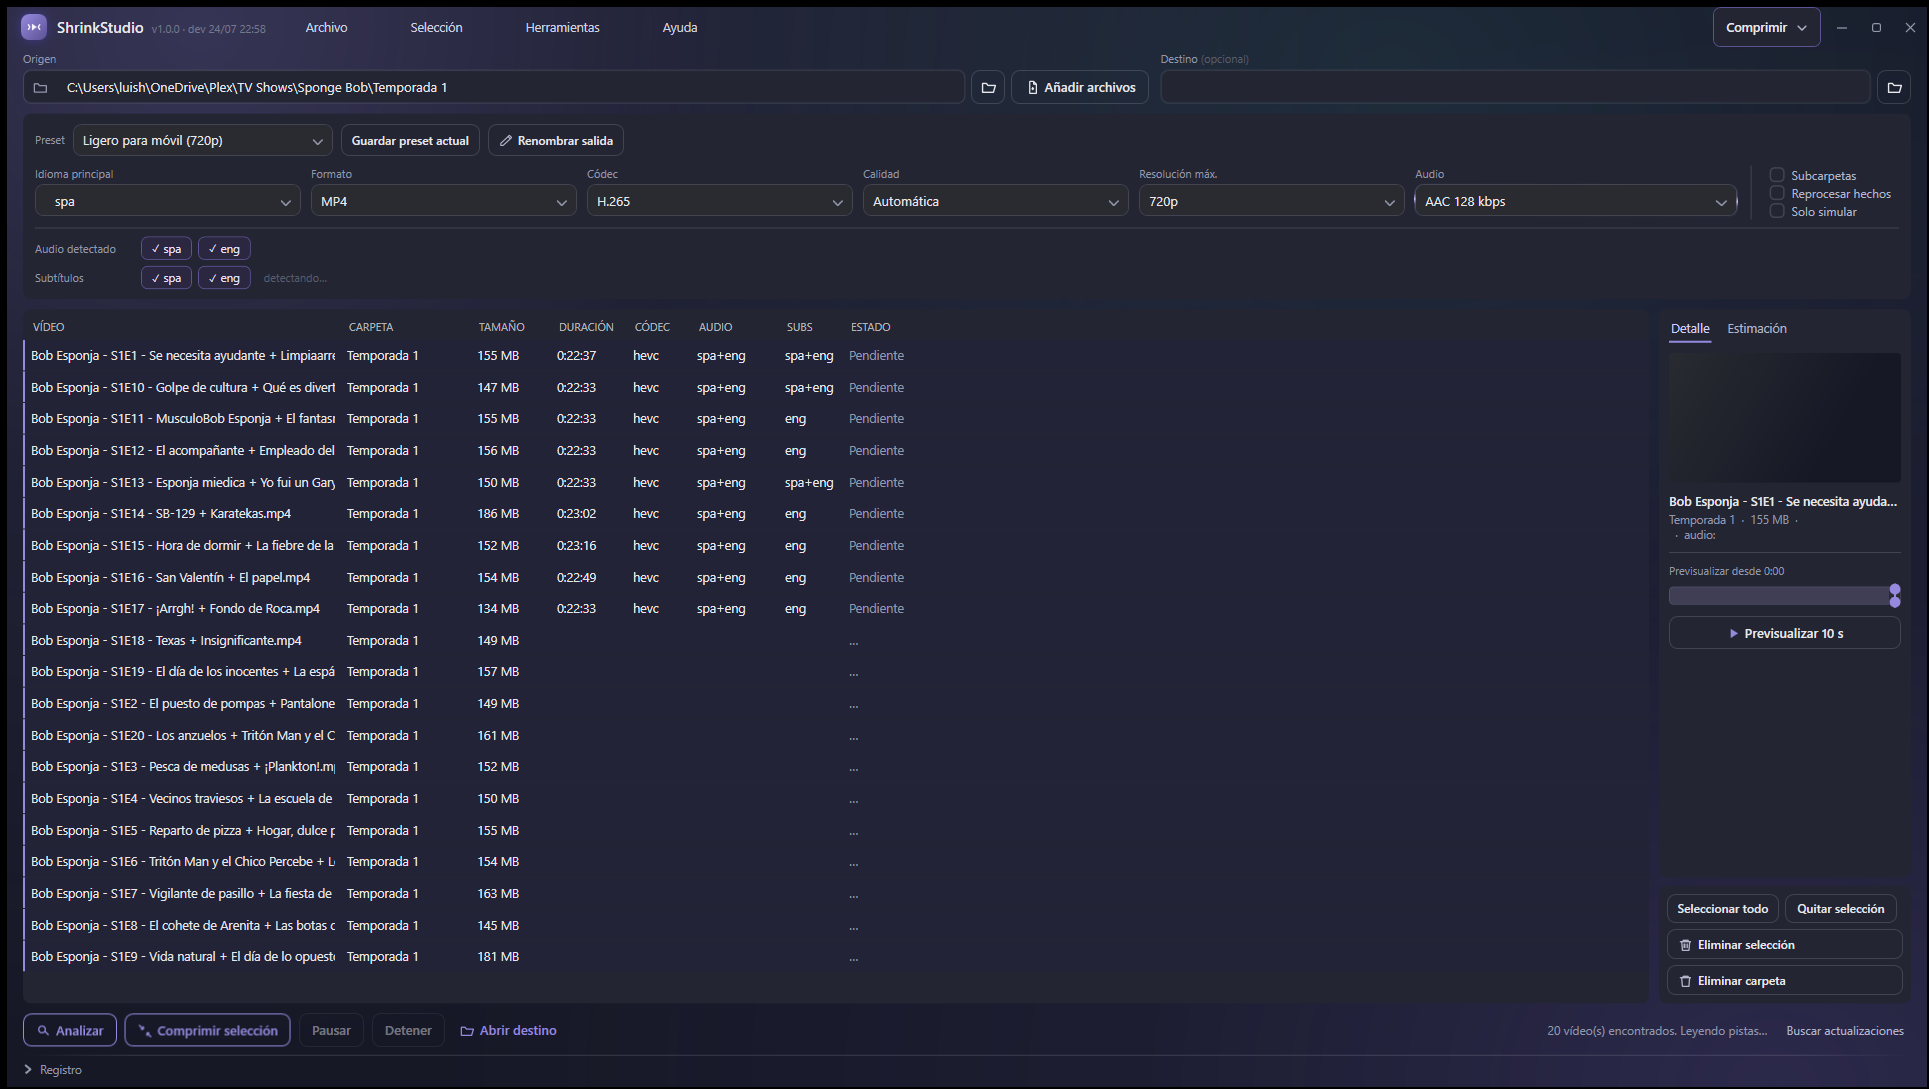
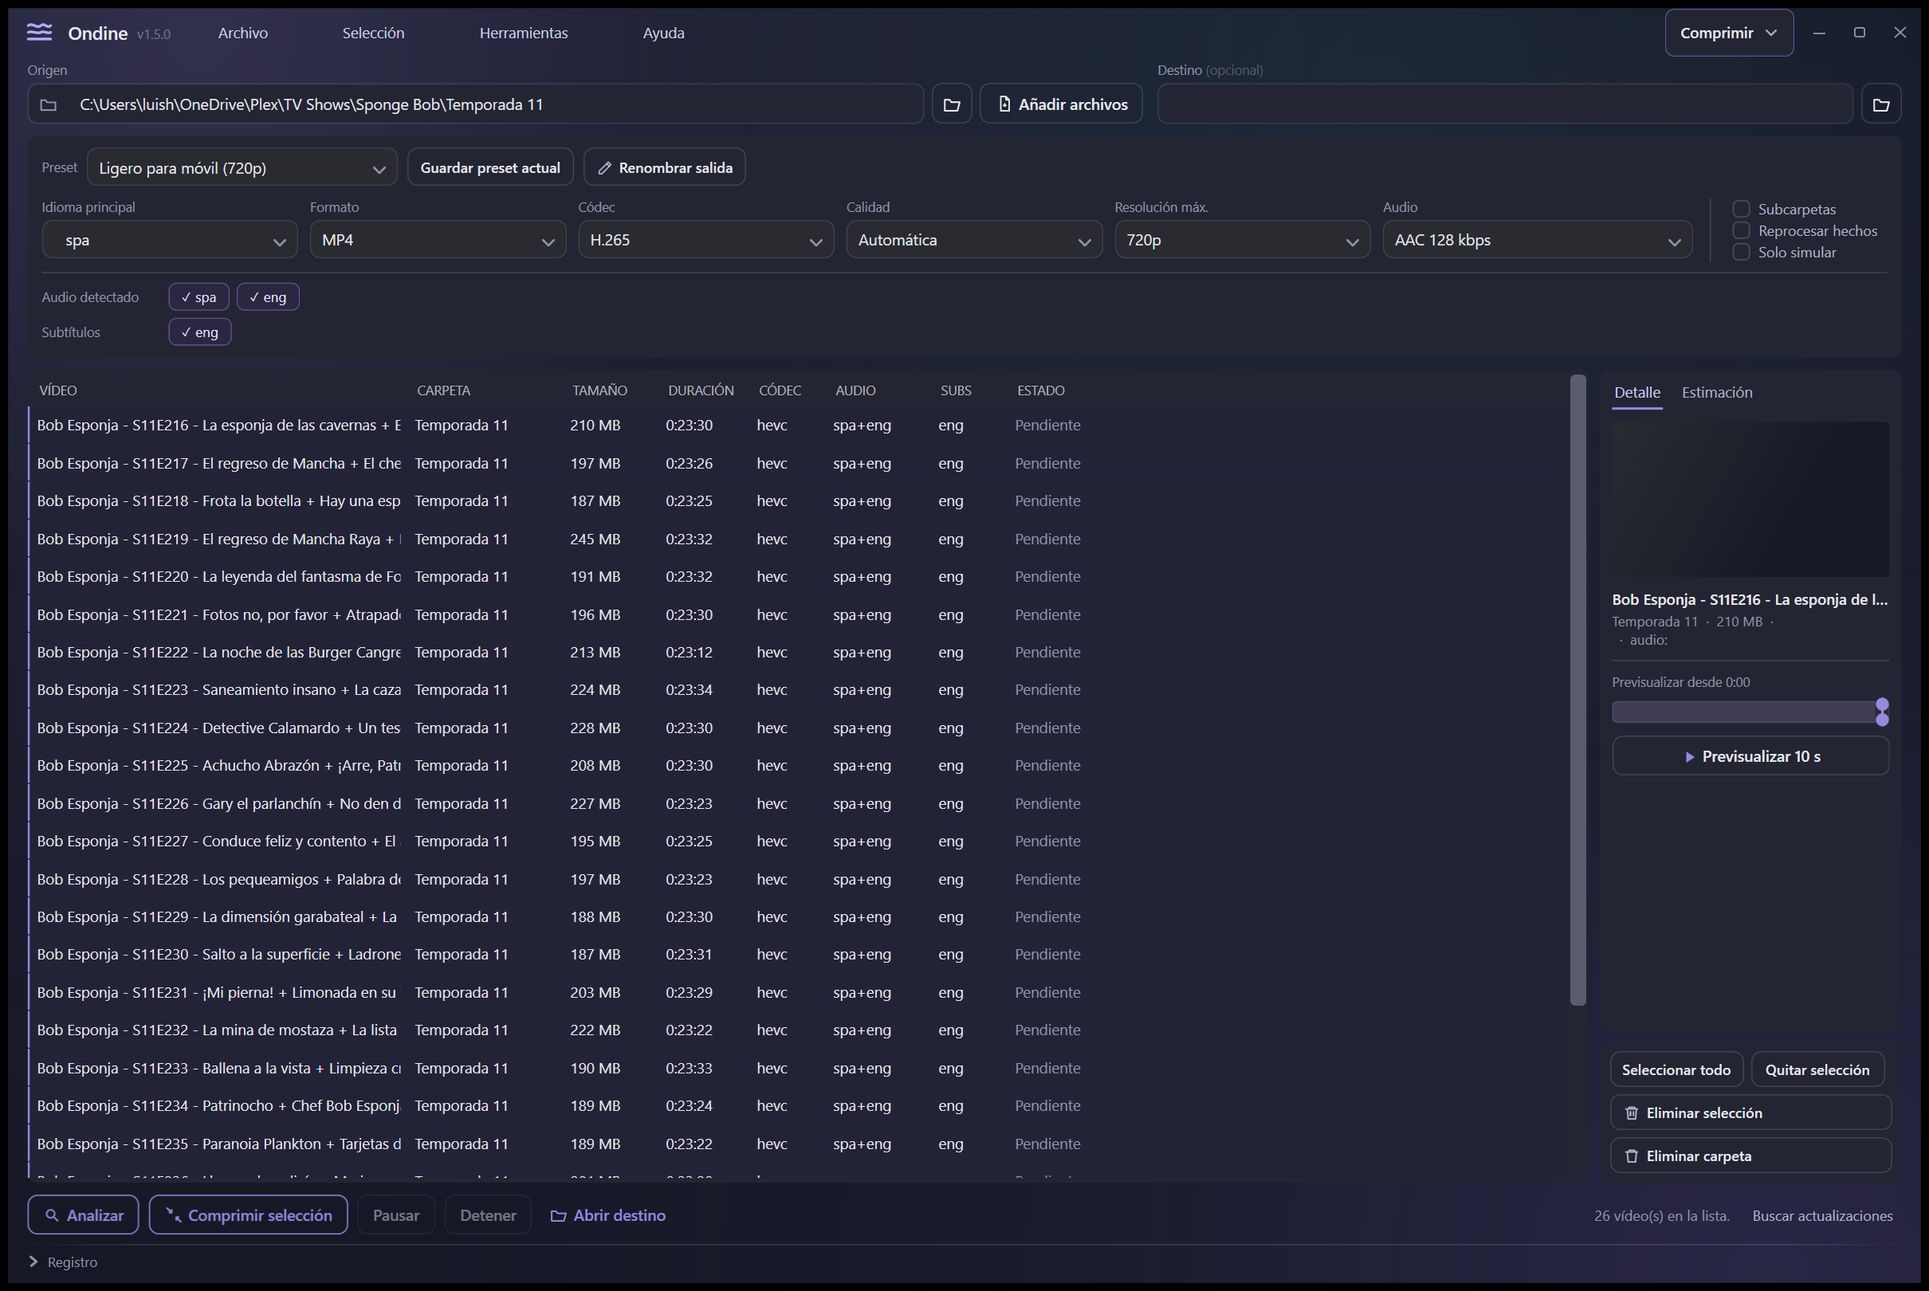
docs: capturas del README rehechas con la marca nueva
Las tres eran del 25 de julio y seguian mostrando «ShrinkStudio» con el
squircle: quien llegaba al README veia la app anterior.

Rehechas sobre la v1.5.0 instalada, con datos reales:
- Comprimir: una temporada analizada, 26 videos con codec, duracion,
  idiomas de audio y subtitulos.
- Organizar: la biblioteca entera contra el catalogo — 246 ficheros, 246
  correctos, cero conflictos, agrupados por temporada.
- Recortes: un capitulo partido en sus dos historias. El segundo tramo se
  bautiza solo a partir del nombre del fichero, que es justo lo que
  ninguna otra herramienta hace.

Los textos se ajustan a lo que las capturas ensenan de verdad.

Detalle que condiciono el trabajo: la biblioteca esta casi toda en la
nube (marcadores de OneDrive) y solo la temporada 11 estaba en local. Se
uso esa a proposito: analizar otra habria disparado la descarga de
cientos de megas por capitulo. Organizar ya se protege solo de eso —
solo sondea metadatos de ficheros que estan en disco.

diff --git a/README.md b/README.md
@@ -46,20 +46,23 @@ nunca a borrado definitivo. Todo ocurre **en tu máquina**: no manda tus fichero
 
 ## Así se ve
 
-**Comprimir** — analiza una carpeta entera, enseña las pistas de cada vídeo (códec, idiomas de audio,
-subtítulos) y comprime en tanda. El panel de la derecha pronostica el tamaño final y el ahorro.
+**Comprimir** — analiza una carpeta entera y enseña las pistas de cada vídeo: códec, duración,
+idiomas de audio y subtítulos. Después comprime en tanda, y el panel de la derecha pronostica el
+tamaño final y el ahorro.
 
-![La pestaña Comprimir con una carpeta analizada](docs/img/comprimir.png)
+![La pestaña Comprimir con una temporada analizada: 26 vídeos con su códec, duración e idiomas](docs/img/comprimir.png)
 
 **Organizar** — compara los ficheros de una carpeta con un catálogo de episodios y propone el nombre
-de cada uno. El color dice de qué fiarte, y no se renombra nada hasta que lo apruebas.
+de cada uno, agrupados por temporada. El color dice de qué fiarte, y no se renombra nada hasta que lo
+apruebas.
 
-![La pestaña Organizar con los ficheros ya identificados](docs/img/organizar.png)
+![La pestaña Organizar: 246 ficheros contra el catálogo, 246 correctos y ningún conflicto](docs/img/organizar.png)
 
 **Recortes** — parte un vídeo en varios o quítale un trozo. Cada tramo sale como un fichero aparte, y
-el original solo se borra si salen todos.
+el original solo se borra si salen todos. Cuando el nombre trae dos títulos, el segundo tramo se
+bautiza solo.
 
-![La pestaña Recortes con un vídeo partido en dos tramos](docs/img/recortes.png)
+![La pestaña Recortes con un capítulo partido en sus dos historias](docs/img/recortes.png)
 
 ## Qué sabe hacer
 
